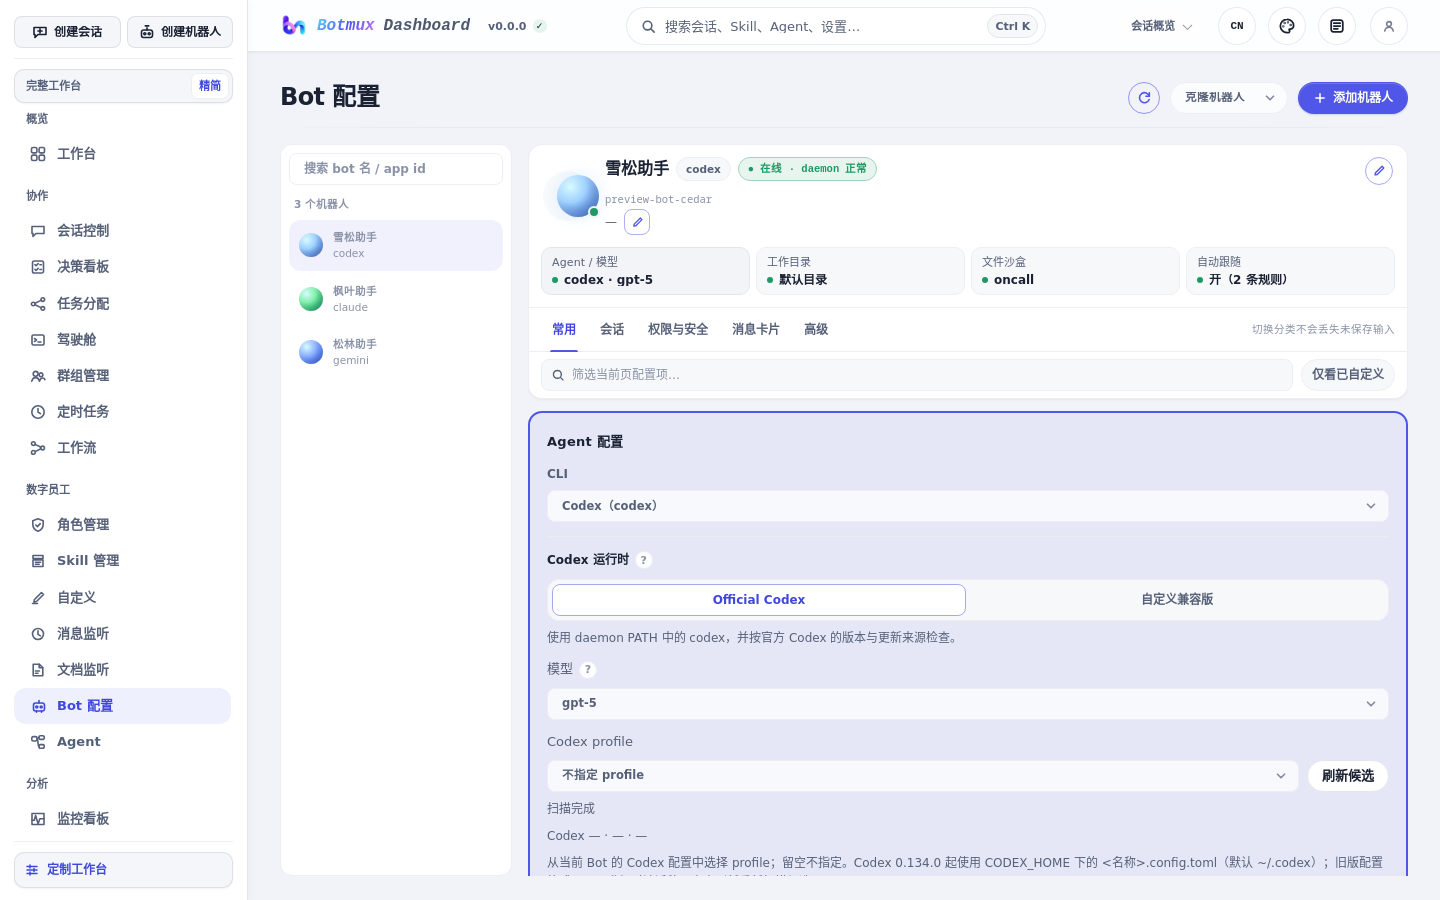
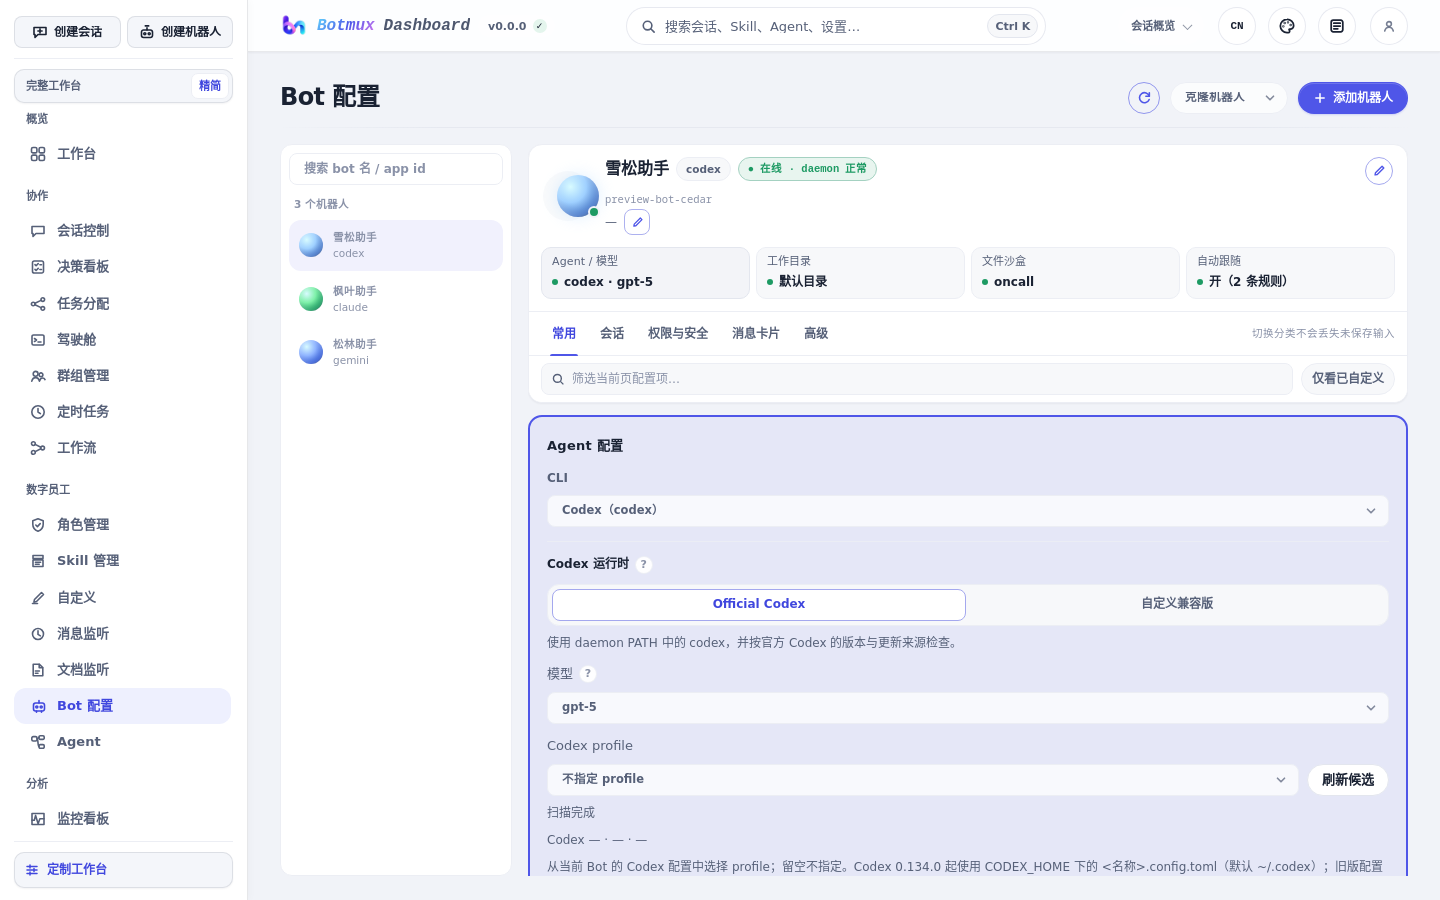
fix(dashboard): 修复 Bot 摘要芯片行高过紧导致字母下延被裁切

diff --git a/src/dashboard/web/style.css b/src/dashboard/web/style.css
@@ -22011,15 +22011,17 @@ dialog select[multiple]:hover:not(:disabled) {
 }
 .bd-summary-strip > button {
   display: grid;
-  gap: 2px;
+  align-content: center;
+  gap: 3px;
   justify-content: stretch;
   justify-items: start;
   min-width: 0;
-  min-height: 48px;
-  padding: 6px 10px;
+  min-height: 52px;
+  padding: 7px 10px;
   border: 1px solid var(--border-soft);
   border-radius: 10px;
   background: var(--surface-muted);
+  line-height: 1.35;
   text-align: start;
   transition: transform var(--t-fast), background-color var(--t-fast), border-color var(--t-fast);
 }
@@ -22032,6 +22034,7 @@ dialog select[multiple]:hover:not(:disabled) {
   color: var(--muted);
   font-size: 11px;
   font-weight: 500;
+  line-height: 1.3;
   letter-spacing: var(--tr-micro);
 }
 .bd-summary-value {
@@ -22042,8 +22045,15 @@ dialog select[multiple]:hover:not(:disabled) {
   color: var(--fg);
   font-size: 12px;
   font-weight: 600;
+  line-height: 1.4;
 }
-.bd-summary-value > span { overflow: hidden; text-overflow: ellipsis; white-space: nowrap; }
+.bd-summary-value > span {
+  overflow: hidden;
+  padding-block: 1px;
+  line-height: 1.4;
+  text-overflow: ellipsis;
+  white-space: nowrap;
+}
 .bd-summary-value > i { flex: none; width: 6px; height: 6px; border-radius: 50%; background: var(--faint); }
 .bd-summary-strip .is-active .bd-summary-value > i { background: var(--success); }
 
